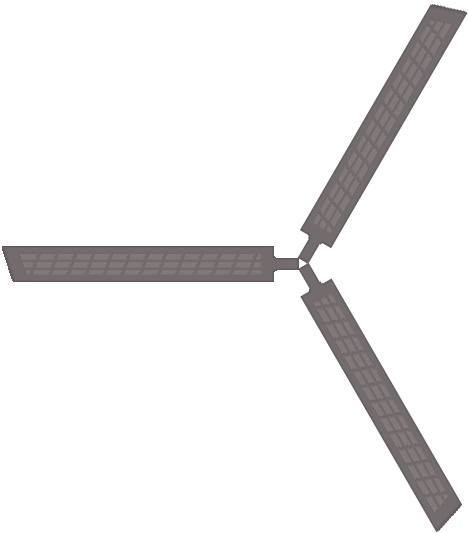
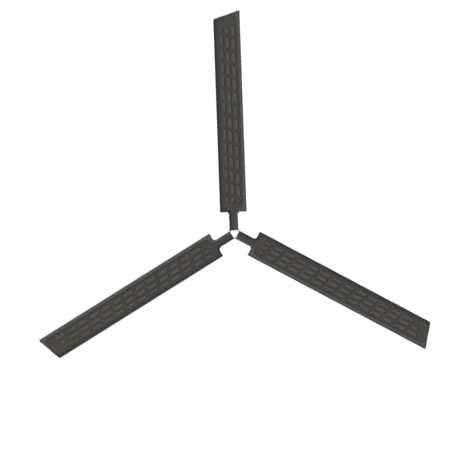
working on updating stuff and new objects for new level

Changed region(s): [[0.0, 0.0, 1.0, 1.0]]

diff --git a/js/logic/gameState.js b/js/logic/gameState.js
@@ -28,6 +28,7 @@ BALL.gameState = {
     ballMaterial: null,
     wallrideMaterial: null,
     boulderMaterial: null,
+    noBounceMaterial: null,
     
     wallrideGroup: null,
     ballGroup: null,
@@ -52,6 +53,7 @@ BALL.gameState = {
         
         
         this.bounceMaterial = game.physics.p2.createMaterial();
+        this.noBounceMaterial = game.physics.p2.createMaterial();
         this.platMaterial = game.physics.p2.createMaterial();
         this.wallrideMaterial = game.physics.p2.createMaterial();
         this.boulderMaterial = game.physics.p2.createMaterial();
@@ -65,6 +67,7 @@ BALL.gameState = {
         BALL.play.ball.body.setCollisionGroup(this.ballGroup);
         
         game.physics.p2.createContactMaterial(this.ballMaterial, this.bounceMaterial, { friction: 3 , restitution: 0.6 }); 
+        game.physics.p2.createContactMaterial(this.ballMaterial, this.noBounceMaterial, { friction: 3 , restitution: 0.1 }); 
         game.physics.p2.createContactMaterial(this.ballMaterial, this.wallrideMaterial, { friction: 999 , restitution: 0 }); 
         game.physics.p2.createContactMaterial(this.ballMaterial, this.boulderMaterial, { friction: 999 , restitution: 0 }); 
         game.physics.p2.createContactMaterial(this.wallrideMaterial, this.boulderMaterial, { friction: 999 , restitution: 0 }); 
@@ -79,7 +82,7 @@ BALL.gameState = {
         BALL.objDefs.init();
         
         console.log("LOAD LEVEL");
-        //BALL.manager.loadLevel(game.cache.getJSON('level'));
+        BALL.manager.loadLevel(game.cache.getJSON('level'));
         
         //this.boulder = game.add.sprite(3000, 1660, "");
         //game.physics.p2.enable(this.boulder, true);
@@ -220,12 +223,13 @@ BALL.gameState = {
     },
     
     wallrideCallback: function(wall, ball) {
+        if (ball.wallrideTime == undefined)
+            ball.wallrideTime = 0;
         console.log("WALLRIDE CALLBACK - " + wall.sprite.key + ", angle:" + Math.abs(Math.abs(wall.angle) - 90));
-        if (ball.wallride == null && game.time.now > ball.wallrideTime);
-            if ( (Math.abs(Math.abs(wall.angle) - 90) < 8 || Math.abs(Math.abs(wall.angle) - 270) < 8)  &&  (wall.rideTime == null || wall.rideTime < game.time.now - 2000) ) {
-                console.log("WALLRIDE ANGLE");
-                console.log("WALLRIDE ANGLE");
-                console.log("WALLRIDE ANGLE");
+        console.log("now: " + game.time.now + ".    wallride: " + ball.wallrideTime);
+        console.log(ball);
+        if (ball.wallride == null && game.time.now > ball.wallrideTime) {
+            if ( (Math.abs(Math.abs(wall.angle) - 90) < 8 || Math.abs(Math.abs(wall.angle) - 270) < 8 || Math.abs(wall.angle) < 8)  &&  (wall.rideTime == null || wall.rideTime < game.time.now - 2000) ) {
                 if (ball.velocity.y < -100) {
                     console.log("RIDING THE WALL");
                     BALL.bController.ball.body.curWall = wall;
@@ -239,6 +243,7 @@ BALL.gameState = {
                     console.log("LOW VEL");
                 }
             }
+        }
     },
     
     moveObject: function(sprite, x, y) {

diff --git a/js/logic/ballController.js b/js/logic/ballController.js
@@ -153,7 +153,7 @@ BALL.bController = {
     },
     
     endContact: function(b1, b2) {
-        console.log("END CONTACT");
+        console.log("END CONTACT - " + game.time.now);
         if (BALL.play.ball.body.curWall != null) {
             console.log("ball y: " + BALL.play.ball.y);
             console.log("wall top: " + (BALL.play.ball.body.curWall.sprite.y + BALL.play.ball.body.curWall.sprite.width / 2));
@@ -178,17 +178,19 @@ BALL.bController = {
   //sadfwadfawd
 BALL.ballFuncs = {
     wallride: function(ball, elapsed, args) {
-        
+        console.log("BALLFUNCS - WALLRIDE");
         if (BALL.bController.ball.body.curWall != null && BALL.bController.ball.body.curWall.sprite.alive) {
             console.log("curWall angle: " + (Math.abs(BALL.play.ball.body.curWall.angle - 90) % 90));
-            if (!(Math.abs(Math.abs(BALL.bController.ball.body.curWall.angle) - 90) < 8 || Math.abs(Math.abs(BALL.bController.ball.body.curWall.angle) - 270) < 8)) {
+            if (!(Math.abs(Math.abs(BALL.bController.ball.body.curWall.angle) - 90) < 8 || Math.abs(Math.abs(BALL.bController.ball.body.curWall.angle) - 270) < 8 || Math.abs(BALL.bController.ball.body.curWall.angle) < 8)) {
                 BALL.play.ball.body.curWall = null;
                 BALL.play.ball.body.wallride = null;
                 BALL.play.ball.body.wallrideTime = game.time.now + 150;
                 BALL.bController.removeFunc("wallride");
+                console.log("BALLFUNCS - WALLRIDE: END WALLRIDE IF");
             } else {
                 ball.body.velocity.x+= (elapsed * 1.5) * args;
                 ball.body.wallride = args;
+                console.log("BALLFUNCS - WALLRIDE: CONTINUE -----WALLRIDE IF");
             }
         }
     },

diff --git a/Editor/mapEditor.js b/Editor/mapEditor.js
@@ -53,6 +53,16 @@ BALL.editor = {
             sel.selectTarget(sprite, game.input.activePointer.worldX, game.input.activePointer.worldY);
         }
     },
+    setTargetSelect: function(tEditor) {
+        this.targetSelect = tEditor;
+    },
+    
+    endTargetSelect: function(tEditor) {
+        if (tEditor != this.targetSelect) {
+            console.warn("end tar select, tEditors not equal", tEditor, this.targetSelect);
+        }
+        this.targetSelect = null;
+    },
     
     getSelectedObj: function() {
         if (this.pathSpriteSelected) {
@@ -299,7 +309,7 @@ BALL.editor = {
 
     selectedUp: function() {
         if (BALL.editor.editMode) {
-            if (BALL.editor.pathSpriteSelected == false) {
+            if (BALL.editor.pathSpriteSelected == false && BALL.editor.selected != null) {
                 if (BALL.editor.selected != null && BALL.editor.selected.body != null) {
                     BALL.editor.selected.body.y -= BALL.editor.spriteSpeed;
                     BALL.editor.selected.startY = BALL.editor.selected.body.y;

diff --git a/js/logic/gObject.js b/js/logic/gObject.js
@@ -172,6 +172,17 @@ BALL.objDefs = {
         //grassy mountains
         this["g1-brickwall"] = this["chalk"];
         this["g1-windmill"] = this["chalk"];
+        this["g1-fan"] = {
+            init: function(obj) {
+                obj.body.loadPolygon("newbods2", obj.key);
+                obj.body.static = true;
+                obj.body.setMaterial(BALL.gameState.noBounceMaterial);
+                obj.body.setCollisionGroup(BALL.gameState.dynamicGroup);
+                obj.body.collides(BALL.gameState.ballGroup, BALL.gameState.wallrideCallback, this);
+                obj.body.collides(BALL.gameState.dynamicGroup);
+                obj.body.collides(BALL.gameState.killGroup);
+            }
+        };
         
         this["default"] = {
             init: function(obj) {

diff --git a/js/states/play.js b/js/states/play.js
@@ -84,9 +84,8 @@ BALL.play = {
         //game.camera.follow(this.ball);
         
         
-        BALL.gameState.createObj(1720, 1850, "g1-island-plat");
         
-        this.bgGround = game.add.tileSprite(0, 300, 7860, 225, "g1-groundbg");
+        this.bgGround = game.add.tileSprite(0, 300, 8860, 225, "g1-groundbg");
         this.bgGround.fixedToCamera = true;
         
         this.follow();
@@ -126,8 +125,8 @@ BALL.play = {
     
     restartGame: function() {
         console.log("CLICKED");
-        this.bgGround.fixedToCamera = true;
-        this.bgGround.y = 300;
+        //this.bgGround.fixedToCamera = true;
+        //this.bgGround.y = 300;
         BALL.gameState.killCallback(null, BALL.play.ball);
         this.overBtn.destroy();
     },

diff --git a/Editor/triggerEditor.js b/Editor/triggerEditor.js
@@ -148,12 +148,13 @@ BALL.eventEditor = {
     
     
     selectTargetClick: function() {
-        console.log(this);
-        BALL.editor.targetSelect = this;
+        console.log("sel target click", this);
+        BALL.editor.setTargetSelect(this);
     },
     
     selectTarget: function(sprite) {
         this.curEvent.setTarget(sprite);
+        BALL.editor.endTargetSelect(this);
     },
     
     updateParam1: function(val) {
